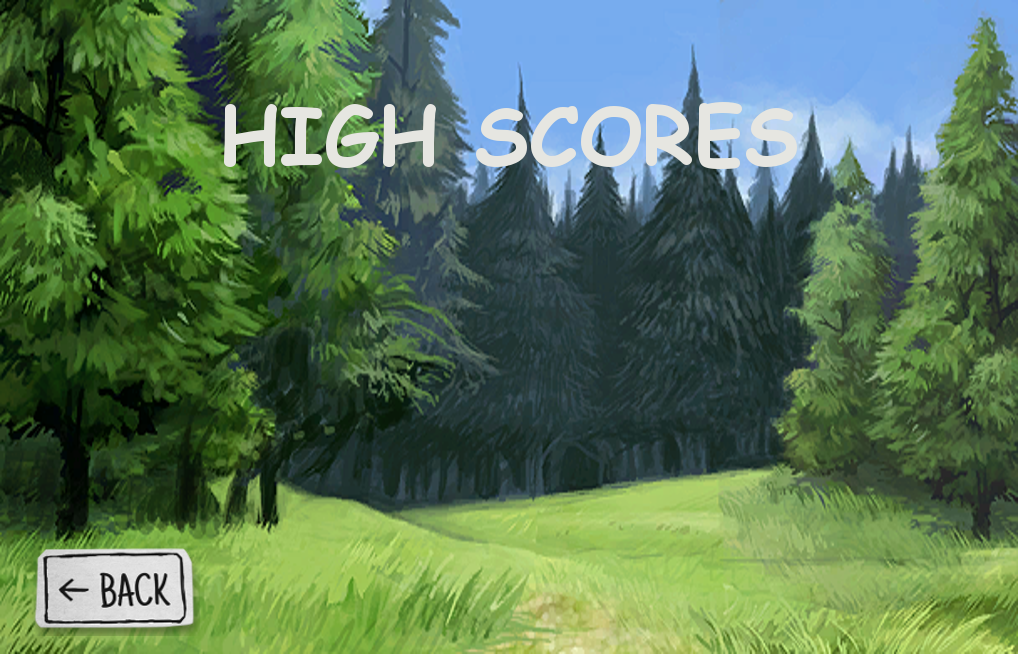
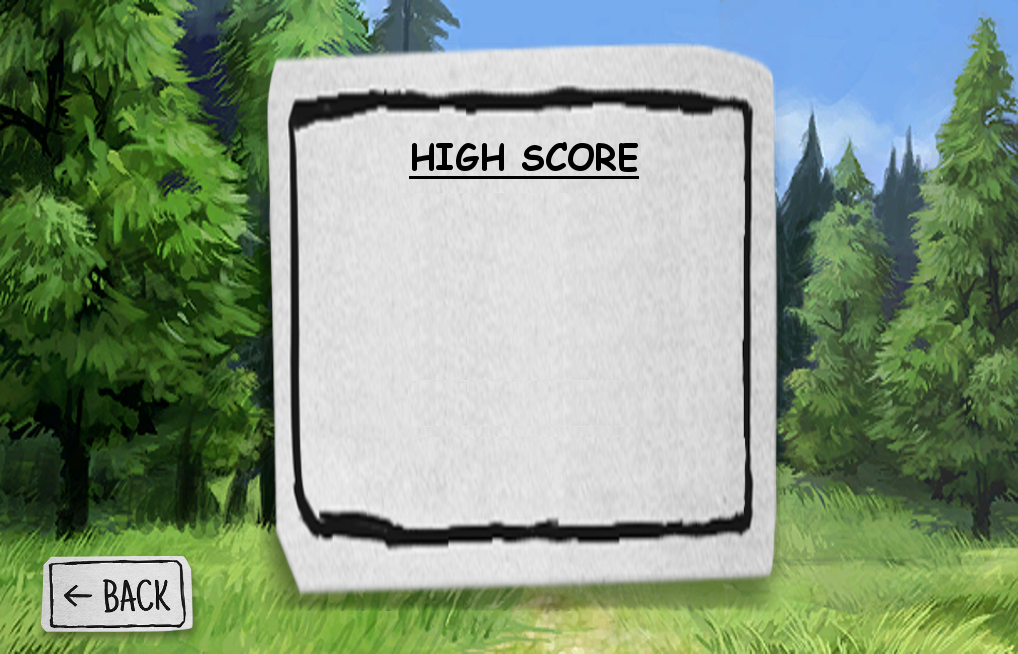
Irene copy from prototype

diff --git a/Irene/main.js b/Irene/main.js
@@ -134,6 +134,9 @@ Pause.prototype.draw = function (ctx) {
 
 var ASSET_MANAGER = new AssetManager();
 
+//score file
+var scoretxt = "./scores.txt";
+
 //Rabbit
 ASSET_MANAGER.queueDownload("./imgs/Rabbit/Rev_Bunny.png");
 
@@ -154,6 +157,7 @@ ASSET_MANAGER.queueDownload("./imgs/Pickups/carrot.png");
 ASSET_MANAGER.queueDownload("./imgs/Pickups/mushroom.png");
 
 //Background
+ASSET_MANAGER.queueDownload("./imgs/tutorial.png");
 ASSET_MANAGER.queueDownload("./imgs/temp_pause.png");
 ASSET_MANAGER.queueDownload("./imgs/stat_game_bg.png");
 ASSET_MANAGER.queueDownload("./imgs/highscore.png");
@@ -190,7 +194,7 @@ ASSET_MANAGER.downloadAll(function () {
     gameEngine.start();
 
     //Pause
-    var score = new Scoring(gameEngine, ctx);
+    var score = new Scoring(gameEngine, ctx, scoretxt);
     var pause = new Pause(gameEngine, ctx, ASSET_MANAGER.getAsset("./imgs/pause.png"), 0);
 
     //Rabbits
@@ -201,21 +205,22 @@ ASSET_MANAGER.downloadAll(function () {
     //var mist = new Monster(gameEngine, ctx, ASSET_MANAGER.getAsset("./imgs/Monster/knight.png"), 800, 105, 104, 105, .15, 6, true, true, 2, -120, 330);
 
     //Pickups
-    var mushroom = new Pickup(gameEngine, ctx, ASSET_MANAGER.getAsset("./imgs/Pickups/mushroom.png"), .5, .5, 33, 33, .15, 2, true, true, 1, 1, 335, 495); //300
+    var mushroom = new Pickup(gameEngine, ctx, ASSET_MANAGER.getAsset("./imgs/Pickups/mushroom.png"), .5, .5, 33, 33, .15, 2, true, true, 1.8, 1, 335, 515); //300
     var carrot = new Pickup(gameEngine, ctx, ASSET_MANAGER.getAsset("./imgs/Pickups/carrot.png"), 0, 0, 39, 62, .15, 5, true, true, 2, 1, 350, 500);
 
     //Enemies
-    var crow = new Enemy(gameEngine, ctx, ASSET_MANAGER.getAsset("./imgs/Enemies/crowFly.png"), 0, 0, 50, 50, .10, 5, true, true, 4, 1.5, "fly", 400, 250);
-    var hawk = new Enemy(gameEngine, ctx, ASSET_MANAGER.getAsset("./imgs/Enemies/hawk.png"), 0, 0, 87, 87, .10, 9, true, true, 4, 1.5, "fly", 450, 250);
-    var bear = new Enemy(gameEngine, ctx, ASSET_MANAGER.getAsset("./imgs/Enemies/bearWalk.png"), 0, 0, 98, 65, 0.15, 5, true, true, 4, 1.5, "walk", 550, 450);
-    var stumpy = new Enemy(gameEngine, ctx, ASSET_MANAGER.getAsset("./imgs/Enemies/stumpy.png"), 0, 60, 74, 60, .17, 4, true, true, 4, 1.5, "walk", 700, 450); //600, 470
+    var crow = new Enemy(gameEngine, ctx, ASSET_MANAGER.getAsset("./imgs/Enemies/crowFly.png"), 0, 0, 73, 73, .10, 5, true, true, 4, 1, "fly", 400, 250);
+    var hawk = new Enemy(gameEngine, ctx, ASSET_MANAGER.getAsset("./imgs/Enemies/hawk.png"), 0, -15, 130, 130, .10, 9, true, true, 4, 1, "fly", 470, 150);
+    var bear = new Enemy(gameEngine, ctx, ASSET_MANAGER.getAsset("./imgs/Enemies/bearWalk.png"), -10, 0, 196, 108, 0.15, 5, true, true, 4, 1, "walk", 550, 450);
+    var stumpy = new Enemy(gameEngine, ctx, ASSET_MANAGER.getAsset("./imgs/Enemies/stumpy.png"), 0, 90, 111, 85, .17, 4, true, true, 4, 1, "walk", 780, 450); //600, 470
     var snake = new Enemy(gameEngine, ctx, ASSET_MANAGER.getAsset("./imgs/Enemies/snake.png"), 0, 0, 95, 87, 0.15, 12, true, true, 3, 1, "walk", 550, 450);
     var snail = new Enemy(gameEngine, ctx, ASSET_MANAGER.getAsset("./imgs/Enemies/snail.png"), 0, 0, 45, 36, 0.15, 4, true, true, 3, 0.7, "walk", 450, 500);
 
     //Background
     var pause_back = new Background(gameEngine, ctx, ASSET_MANAGER.getAsset("./imgs/temp_pause.png"), 0, pause);
-    var highscore = new Background(gameEngine, ctx, ASSET_MANAGER.getAsset("./imgs/highscore.png"), 0);
     var start = new Background(gameEngine, ctx, ASSET_MANAGER.getAsset("./imgs/stat_game_bg.png"), 0);
+    var tutorial = new Background(gameEngine, ctx, ASSET_MANAGER.getAsset("./imgs/tutorial.png"), 0);
+    var highscore = new Background(gameEngine, ctx, ASSET_MANAGER.getAsset("./imgs/highscore.png"), 0);
     var back1 = new Background(gameEngine, ctx, ASSET_MANAGER.getAsset("./imgs/Background/tree_layer_5.png"), 0);
     var back2 = new Background(gameEngine, ctx, ASSET_MANAGER.getAsset("./imgs/Background/tree_layer_4.png"), .5);
     var back3 = new Background(gameEngine, ctx, ASSET_MANAGER.getAsset("./imgs/Background/tree_layer_3.png"), 1);
@@ -227,17 +232,15 @@ ASSET_MANAGER.downloadAll(function () {
     //game, ctx, spriteSheet, startX, startY, frameWidth, frameHeight, frameDuration, frames, loop, reverse, speed, scale, x, y) {
     var hole = new Platform(gameEngine, ctx, ASSET_MANAGER.getAsset("./imgs/Platforms/hole.png"), 0, 41, 78, 41, 0.15, 7, true, false, 1.5, 1, 350, 510);
     var sign = new Platform(gameEngine, ctx, ASSET_MANAGER.getAsset("./imgs/Platforms/sign.png"), 0, 0, 63, 93, 0.15, 1, true, false, 1.5, 1, 315, 425);
-    var bush = new Platform(gameEngine, ctx, ASSET_MANAGER.getAsset("./imgs/Platforms/bush.png"),0, 0, 150, 71, .15, 1, true, true,0, 1, 320, 510);
     
-    var sstump = new Platform(gameEngine, ctx, ASSET_MANAGER.getAsset("./imgs/Platforms/sm_stump.png"), 41, 43, 65, 83, 0.15, 1, true, false, 1.5, 3, 850, 445); //move= 1 //460 = up/down
-    var mstump = new Platform(gameEngine, ctx, ASSET_MANAGER.getAsset("./imgs/Platforms/med_stump.png"), 115, 88, 65, 101, 0.15, 1, true, false, 1.5, 3, 1050, 429);
-    var lstump = new Platform(gameEngine, ctx, ASSET_MANAGER.getAsset("./imgs/Platforms/lg_stump.png"), 53, 15, 64, 129, 0.15, 1, true, false, 1.5, 3, 1200, 405);
+    var sstump = new Platform(gameEngine, ctx, ASSET_MANAGER.getAsset("./imgs/Platforms/sm_stump.png"), 50, 56, 90, 112, 0.15, 1, true, false, 1.5, 1, 850, 420); //move= 1 //460 = up/down
+    var mstump = new Platform(gameEngine, ctx, ASSET_MANAGER.getAsset("./imgs/Platforms/med_stump.png"), 172.5, 132, 100, 153, 0.15, 1, true, false, 1.5, 1, 1050, 380);
+    var lstump = new Platform(gameEngine, ctx, ASSET_MANAGER.getAsset("./imgs/Platforms/lg_stump.png"), 76, 22, 98, 194, 0.15, 1, true, false, 1.5, 1, 1250, 345);
   
 
 
     //gameEngine.addEntity(pause_back);
     gameEngine.addEntity(pause_back);
-    gameEngine.addEntity(highscore);
     /************************************************
      * NEVER EVER EVER EVER ADD AN ENTITY BEFORE THIS
      *************************************************/
@@ -272,16 +275,19 @@ ASSET_MANAGER.downloadAll(function () {
     gameEngine.addEntity(carrot);
     gameEngine.addEntity(wraith);
     gameEngine.addEntity(bunny);
-    gameEngine.addEntity(bush);
     gameEngine.addEntity(back6);
     gameEngine.addEntity(score);
+    
 
     /********************************************************************* 
      * NEVER EVER EVER EVER ADD AN ENTITY AFTER THIS
     **********************************************************************/
-
+    
     gameEngine.addEntity(pause);
+    gameEngine.addEntity(tutorial);
+    gameEngine.addEntity(highscore);
     gameEngine.addEntity(start);
+    gameEngine.backup();
 });
 
 

diff --git a/Irene/Background.js b/Irene/Background.js
@@ -11,8 +11,11 @@ function Background(game, ctx, spritesheet, speed, pause, visible) {
     this.game = game;
     this.ctx = ctx;
     this.entities_copy = [];
+    this.initialGame = [];
     this.pause = pause;
-    this.visible = false;
+    this.screen = "";
+    var temp;
+    this.visible = null;
 	this.draw = function() {
         this.x += this.speed;
          // Scrolling left
@@ -32,7 +35,7 @@ Background.prototype.draw = function () {
 };
 
  Background.prototype.update = function () {
-     /** CONTINUE BUTTON ON THE PAUSE MODE **/
+     //Pause
     if (this.visible && this.game.running) {
         if ((this.game.click.x >= 410 && this.game.click.x <= 590) && (this.game.click.y >= 285 && this.game.click.y <= 360)) {
             for(var i = 1; i < this.pause.entities_copy.length; i++) {
@@ -46,23 +49,47 @@ Background.prototype.draw = function () {
             this.game.click.x = null;
             this.game.click.y = null;
         }
+        //Quit to menu from pause
+        if (this.game.click.x >= 395 && this.game.click.y >= 365 && this.game.click.x <= 605 && this.game.click.y <= 450) {
+            this.game.reset();
+        }
     }
-    /** START GAME BUTTON DURING THE START OF THE GAME **/
-    if ((this.game.click.x >= 430 && this.game.click.x <= 615) && (this.game.click.y >= 260 && this.game.click.y <= 335) && !this.game.running) {
-        console.log(this.game.entities);
+    //Start game
+    if ((this.game.click.x >= 430 && this.game.click.x <= 615) && (this.game.click.y >= 260 && this.game.click.y <= 335) && !this.game.running && this.screen === "") {
         this.game.running = true;
         this.game.entities[this.game.entities.length - 1].removeFromWorld = true;
+        this.game.entities[this.game.entities.length - 2].removeFromWorld = true;
+        this.game.entities[this.game.entities.length - 3].removeFromWorld = true;
     }
-     
-    /** HIGH SCORE BUTTON DURING THE START OF THE GAME **/
-    if ((this.game.click.x >= 551 && this.game.click.x <= 725) && (this.game.click.y >= 360 && this.game.click.y <= 427) && !this.game.running) {
-        //somehow need to go to the highscore page --> highscore asset manager has been added
-        //without breaking alex's startgame and pause code
-        console.log("STARTING THE HIGHSCORE PAGE");
+    //Tutorial
+    if (this.game.click.x >= 320 && this.game.click.y >= 350 && this.game.click.x <= 500 && this.game.click.y <= 430 && !this.game.running && this.screen === "") {
+        this.screen = "tut";
+        this.game.main = this.game.entities[this.game.entities.length - 1];
+        this.game.highscore = this.game.entities[this.game.entities.length - 2];
+        this.game.entities[this.game.entities.length - 1].removeFromWorld = true;
+        this.game.entities[this.game.entities.length - 2].removeFromWorld = true;
     }
-
-    /** OPTION BUTTON DURING THE START OF THE GAME **/
-    if ((this.game.click.x >= 323 && this.game.click.x <= 493) && (this.game.click.y >= 359 && this.game.click.y <= 422) && !this.game.running) {
-        console.log("STARTING THE OPTION PAGE");
+    //Back to Menu from Tutorial
+    if (this.game.click.x >= 43 && this.game.click.y >= 555 && this.game.click.x <= 195 && this.game.click.y <= 632 && this.game.main && this.screen === "tut") {
+        var main = new Background(this.game, this.ctx, this.game.main.spritesheet, this.game.main.speed, this.game.main.pause, this.game.main.visible);
+        var highscore = new Background(this.game, this.ctx, this.game.highscore.spritesheet, this.game.highscore.speed, this.game.highscore.pause, this.game.highscore.visible);
+        this.game.addEntity(highscore);
+        this.game.addEntity(main);
+        this.game.main = null;
+        this.game.highscore = null;
+        this.screen = "";
+    }
+    //HighScore
+    if (this.game.click.x >= 550 && this.game.click.y >= 355 && this.game.click.x <= 730 && this.game.click.y <= 430 && !this.game.running && this.screen === "") {
+        this.screen = "high";
+        this.game.main = this.game.entities[this.game.entities.length - 1];
+        this.game.entities[this.game.entities.length - 1].removeFromWorld = true;
+    }
+    //Back to Menu from Tutorial
+    if (this.game.click.x >= 43 && this.game.click.y >= 555 && this.game.click.x <= 195 && this.game.click.y <= 632 && this.game.main && this.screen === "high") {
+        var main = new Background(this.game, this.ctx, this.game.main.spritesheet, this.game.main.speed, this.game.main.pause, this.game.main.visible);
+        this.game.addEntity(main);
+        this.game.main = null;
+        this.screen = "";
     }
 };

diff --git a/Irene/Scoring.js b/Irene/Scoring.js
@@ -1,29 +1,14 @@
 /*********************
 * Scoring Object *
 *********************/
-window.localStorage;
-function Scoring(game, ctx) {
+function Scoring(game, ctx, scorefile) {
     this.x = 0;
     this.y = 0;
     this.score = 0;
     this.fps = 60;
     this.game = game;
     this.ctx = ctx;
-}
-function saveScore(score){
-    //console.log(score + " " + Number(localStorage.highscore));
-    if(typeof(Storage) != '"undefined'){
-       if(localStorage.highscore && (score > Number(localStorage.highscore))){
-           localStorage.highscore = score;
-           //localStorage.highscore = 0; //to reset the highscore
-           console.log("HIGHSCORE: " + localStorage.highscore);
-       } else if (localStorage.highscore && (score < Number(localStorage.highscore))){
-            console.log("Not highscore yet");
-            //localStorage.highscore = 0; //to rest the highscore
-       }
-    } else {
-        console.log("Local browser does not support web storage");
-    }
+    this.file = scorefile;
 }
 Scoring.prototype.draw = function(){
     if (this.game.running) {
@@ -36,6 +21,5 @@ Scoring.prototype.draw = function(){
 Scoring.prototype.update = function(){
     if (this.game.running){
         this.score += (1/this.fps);
-        saveScore(Math.floor(this.score));
     }
 };

diff --git a/Irene/gameengine.js b/Irene/gameengine.js
@@ -30,6 +30,7 @@ Timer.prototype.tick = function () {
 
 function GameEngine() {
     this.entities = [];
+    this.entities_copy = [];
     this.showOutlines = false;
     this.ctx = null;
     this.click = null;
@@ -38,6 +39,8 @@ function GameEngine() {
     this.surfaceWidth = null;
     this.surfaceHeight = null;
     this.running = false;
+    this.main = null;
+    this.highscore = null;
 }
 
 GameEngine.prototype.init = function (ctx) {
@@ -123,6 +126,24 @@ GameEngine.prototype.loop = function () {
     this.update();
     this.draw();
     this.space = null;
+}
+
+GameEngine.prototype.backup = function () {
+    for (var i = 0; i < this.entities.length; i++) {
+        this.entities_copy[i] = this.entities[i];
+    }
+}
+
+GameEngine.prototype.reset = function () {
+    this.running = false;
+    for (var i = this.entities.length - 1; i >= 0; --i) {
+        this.entities.splice(i, 1);
+    }
+    for (var i = 0; i < this.entities_copy.length; i++) {
+        this.entities[i] = this.entities_copy[i];
+    }
+    console.log(this.entities);
+    this.backup();
 }
 
 function Entity(game, x, y) {

diff --git a/Irene/Enemy.js b/Irene/Enemy.js
@@ -22,7 +22,7 @@ function Enemy(game, ctx, spriteSheet, startX, startY, frameWidth, frameHeight, 
     switch (type) {
         case "walk":
             this.x = x; //0 - frameWidth;
-            this.y = 510 - frameHeight; //510 - frameHeight;
+            this.y = 550 - frameHeight; //510 - frameHeight;
             break;
         case "fly":
             this.x = x; //0 - frameWidth;
@@ -53,8 +53,7 @@ Enemy.prototype.update = function () {
 Enemy.prototype.draw = function () {
     if (this.game.running) {
         this.animation.drawFrame(this.game.clockTick, this.ctx, this.x, this.y, this.scale);
-        this.ctx.strokeStyle = "black";
-        this.ctx.strokeRect(this.x, this.y, this.frameWidth, this.frameHeight * 1.10);
+        this.ctx.strokeRect(this.x, this.y, this.boundingBox.x, this.boundingBox.y);
         Entity.prototype.draw.call(this);
     }
 }

diff --git a/Irene/Rabbit.js b/Irene/Rabbit.js
@@ -44,17 +44,15 @@ Bunny.prototype.update = function () {
 }
 
 Bunny.prototype.draw = function (ctx) {
-    this.ctx.strokeStyle = "yellow";
     if (this.game.running) {
         if (this.jumping) {
             this.jumpAnimation.drawFrame(this.game.clockTick, ctx, this.x, this.y - 40);
-            
-            this.ctx.strokeRect(this.x, this.y-40,62,57);
+            ctx.strokeRect(this.x, this.y-40,62,57);
             this.boundingBox.y = this.ground - this.height;
         }
         else {
             this.animation.drawFrame(this.game.clockTick, ctx, this.x, this.y);
-            this.ctx.strokeRect(this.x, this.y,58,57); 
+            ctx.strokeRect(this.x, this.y,58,57); 
         }
         Entity.prototype.draw.call(this);
     }

diff --git a/Irene/Bounding.js b/Irene/Bounding.js
@@ -1,0 +1,20 @@
+/***********************
+ * BOUNDING BOX Object *
+ ***********************/
+
+function BoundingBox(x, y, width, height) {
+    this.x = x;
+    this.y = y;
+    this.width = width;
+    this.height = height;
+
+    this.left = x;
+    this.top = y;
+    this.right = this.left + width;
+    this.bottom = this.top + height;
+}
+
+BoundingBox.prototype.collide = function (oth) {
+    if (this.right > oth.left && this.left < oth.right && this.top < oth.bottom && this.bottom > oth.top) return true;
+    return false;
+}

diff --git a/Irene/Monster.js b/Irene/Monster.js
@@ -32,8 +32,7 @@ Monster.prototype.update = function () {
 Monster.prototype.draw = function() {
     if (this.game.running) {
         this.animation.drawFrame(this.game.clockTick, this.ctx, this.x, this.y, this.scale);
-        this.ctx.strokeStyle = "red";
-        this.ctx.strokeRect(this.x, this.y,this.frameWidth * 1.50,this.frameHeight * 1.9);
+        this.ctx.strokeRect(this.x, this.y,this.frameWidth * 1.75,this.frameHeight * 1.9);
         Entity.prototype.draw.call(this);
     }
 }

diff --git a/Irene/Platform.js b/Irene/Platform.js
@@ -44,8 +44,7 @@ Platform.prototype.update = function () {
 Platform.prototype.draw = function (ctx) {
     if (this.game.running) {
         this.animation.drawFrame(this.game.clockTick, ctx, this.x, this.y);
-        this.ctx.strokeStyle = "green";
-        this.ctx.strokeRect(this.x, this.y,this.frameWidth * 0.9 ,this.frameHeight);
+        this.ctx.strokeRect(this.x, this.y,this.frameWidth,this.frameHeight);
         Entity.prototype.draw.call(this);
     } 
 }

diff --git a/Irene/Pickups.js b/Irene/Pickups.js
@@ -37,7 +37,6 @@ Pickup.prototype.update = function () {
 Pickup.prototype.draw = function (ctx) {
     if (this.game.running) {
         this.animation.drawFrame(this.game.clockTick, this.ctx, this.x, this.y);
-        this.ctx.strokeStyle = "blue";
         this.ctx.strokeRect(this.x, this.y,this.frameWidth,this.frameHeight); 
         Entity.prototype.draw.call(this);
     }

diff --git a/Irene/index.html b/Irene/index.html
@@ -22,6 +22,7 @@
     <script type="text/javascript" src="./Pickups.js"></script>
     <script type="text/javascript" src="./Platform.js"></script>
     <script type="text/javascript" src="./Scoring.js"></script>
+    <script type="text/javascript" src="./Bounding.js"></script>
 </head>
 <body>
     <canvas id="gameWorld" tabindex="1" width="1018" height="654"></canvas>
